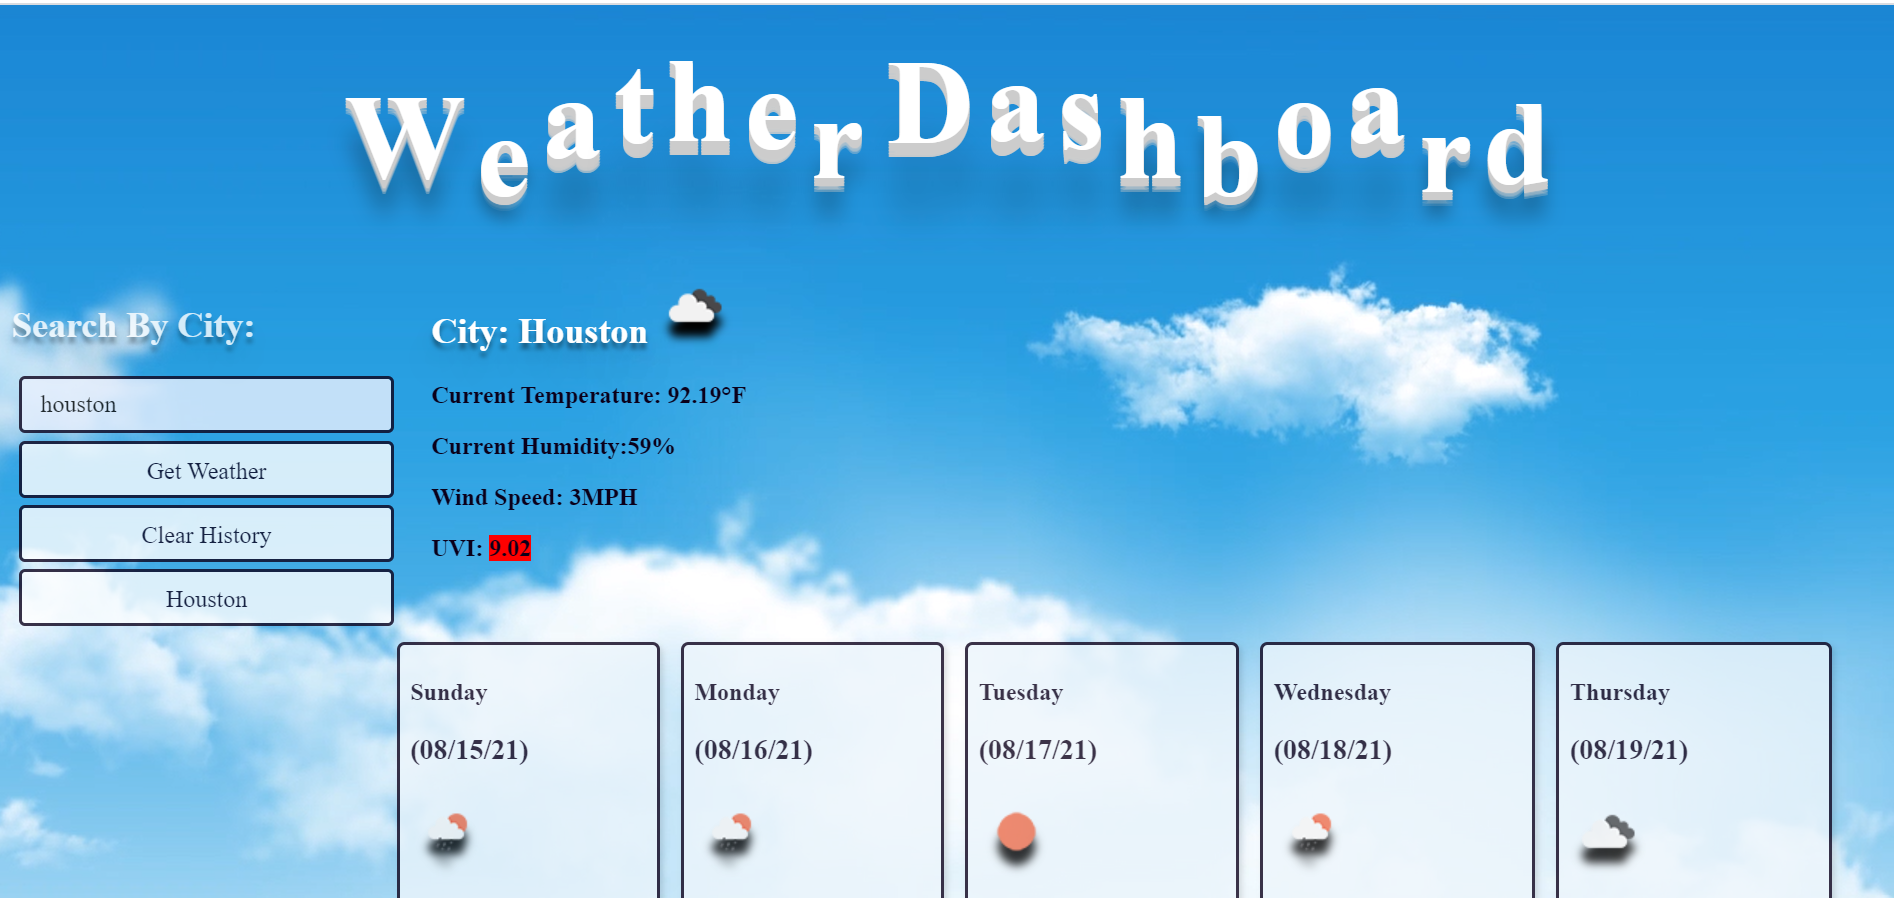
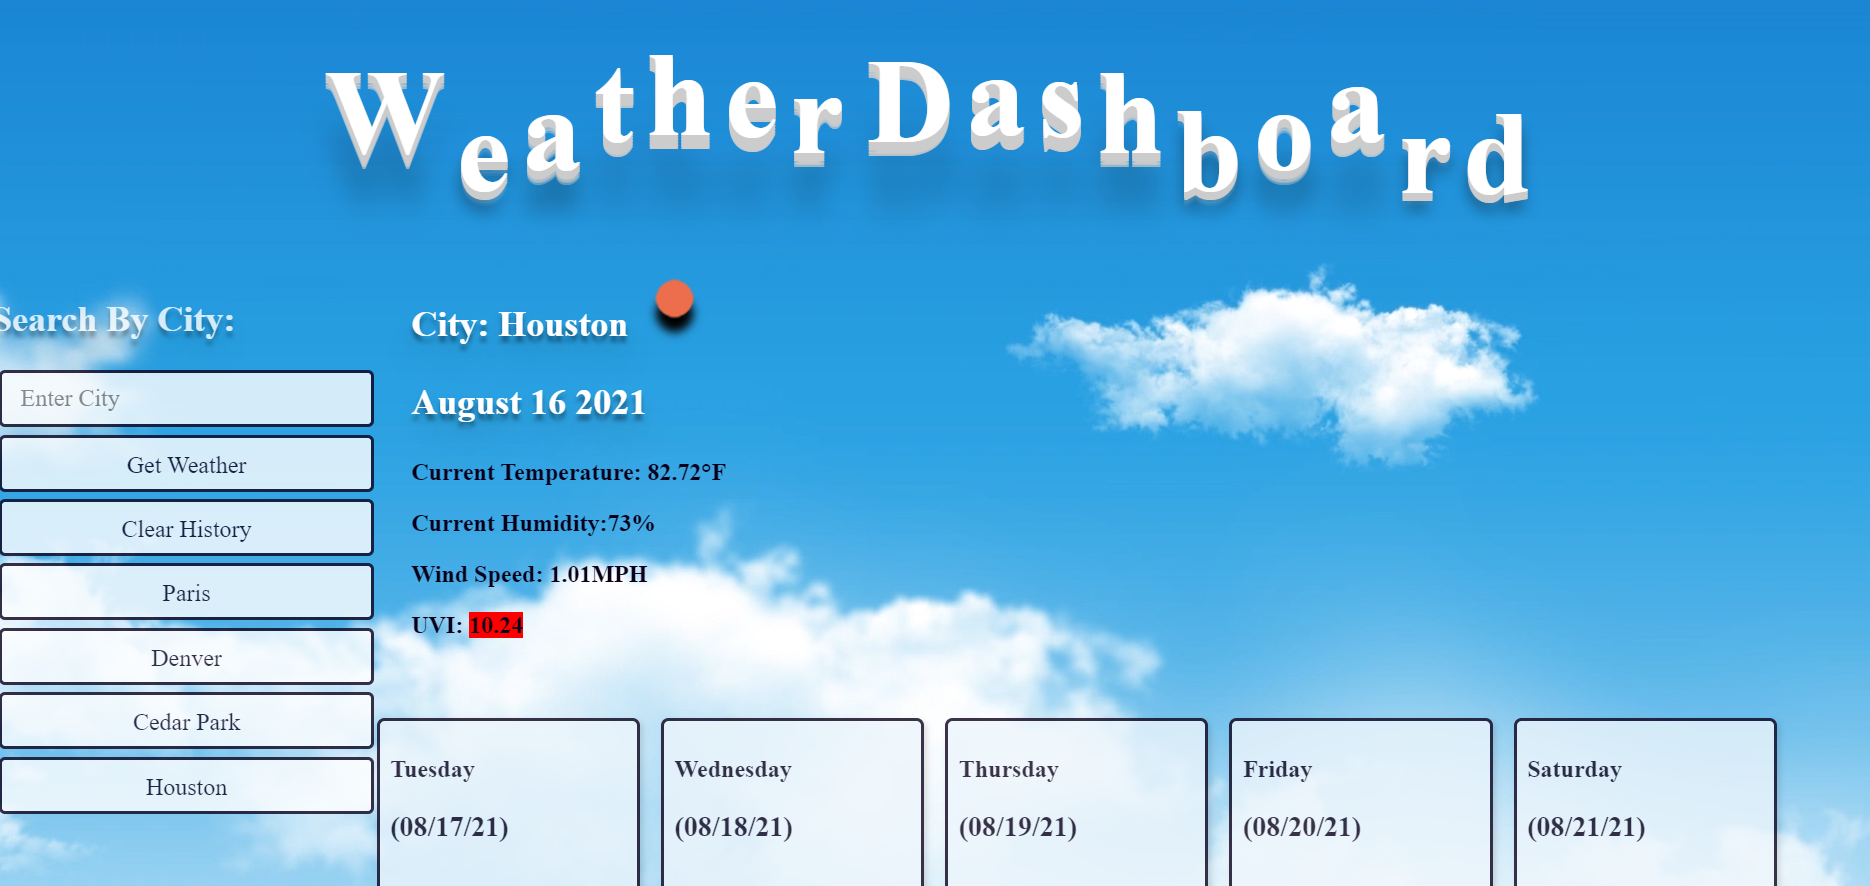
updated readme and add date to current city

diff --git a/assets/js/script.js b/assets/js/script.js
@@ -6,7 +6,7 @@ console.log(date);
 //end of that ^
 
 //current date
-$("#currentDate").append(moment().format("dddd, MMM Do YYYY"));
+// $("#currentDate").append(moment().format("dddd, MMM Do YYYY"));
 
 //variables
 var searchInput = $("#city");
@@ -58,13 +58,15 @@ $(document).ready(function () {
       .then(function (data) {
         console.log(data);
 
+        var currentDate = moment().format("MMMM D YYYY");
         document.querySelector(
           ".current-weather"
         ).innerHTML = `<h2 class="city-name">
-        City: ${data.name} <img
+        City: ${data.name}    <img
           src="https://openweathermap.org/img/wn/${data.weather[0].icon}.png"
           alt=""
         />
+        <p id="date">${currentDate}</p>
       </h2>
 
       <p class="current-temp">Current Temperature:  ${data.main.temp}°F</p>
@@ -126,13 +128,7 @@ $(document).ready(function () {
             .unix(currentTimeUTC)
             .utc()
             .utcOffset(currentTimeZoneOffsetHours);
-          // let output = document.querySelector("h1");
-          // let today = new Date();
-          // let month = today.getMonth() + 1;
-          // let year = today.getFullYear();
-          // let date = today.getDate();
-          // let current_date = `${month}/${date}/${year}`;
-          // output.innerText = current_date;
+
           var forecastCard = document.createElement("div");
           forecastCard.classList.add("card");
 

diff --git a/assets/css/style.css b/assets/css/style.css
@@ -145,7 +145,12 @@ h2 {
   text-shadow: 0px 4px 3px rgba(0, 0, 0, 0.4), 0px 8px 13px rgba(0, 0, 0, 0.1),
     0px 18px 23px rgba(0, 0, 0, 0.1);
 }
+#date {
+  color: #fff;
 
+  text-shadow: 0px 4px 3px rgba(0, 0, 0, 0.4), 0px 8px 13px rgba(0, 0, 0, 0.1),
+    0px 18px 23px rgba(0, 0, 0, 0.1);
+}
 .container {
   /* /* margin-top: 50%; */
   padding-top: 112px;

diff --git a/index.html b/index.html
@@ -69,7 +69,7 @@
         ></ul>
       </div>
       <div class="results-container">
-        <div class="current-weather">
+        <div class="current-weather" id="currentDate" class="lead">
           <!--html before I created dynamically-->
           <!-- <h2 class="city-name">
             City: Austin(04/25/2021)<img
